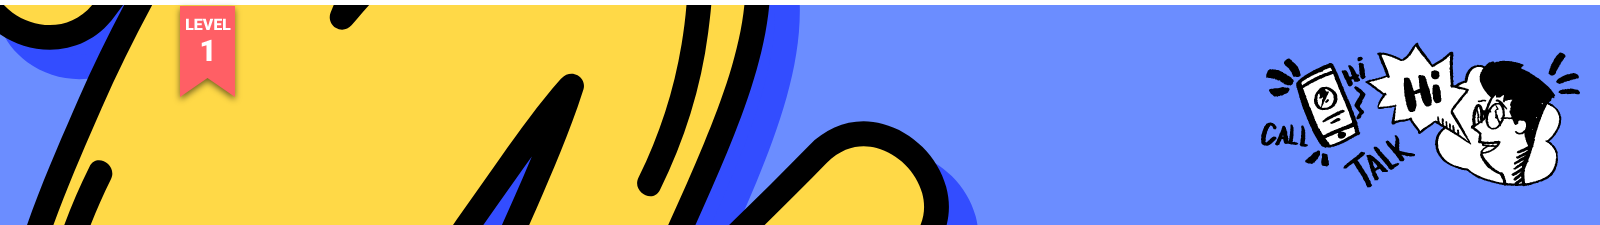
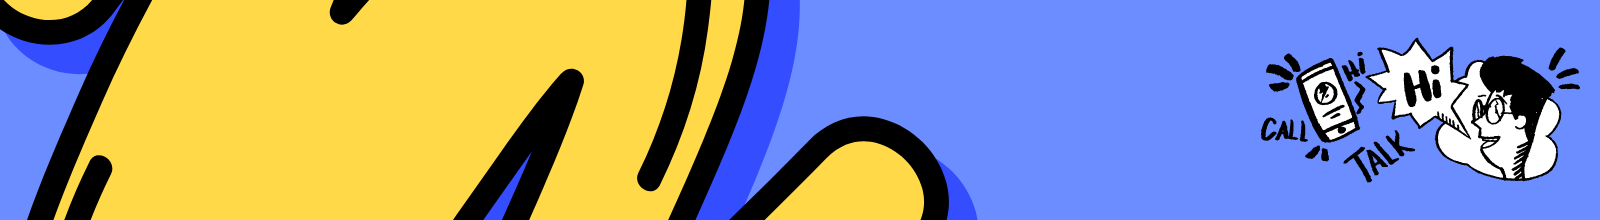
Ajustes header

diff --git a/src/config/global.js b/src/config/global.js
@@ -1,8 +1,7 @@
 export default {
   global: {
-    componenteFormativoENG: 'Hello! It’s nice to meet you. ',
     componenteFormativo:
-      '<span class= r-4>¡Hola! Encantado de conocerte.</span>',
+      'Hello! It’s nice to meet you.<br> <span class= r-4>¡Hola! Encantado de conocerte.</span>',
     descripcionCurso:
       'Durante el siguiente componente se brinda la introducción a las nociones gramaticales básicas, desde artículos, sustantivos y pronombres de sujeto para denominar correctamente cualquier cosa (persona, animal, objeto, etc.), pasando por el verbo ser/estar, los saludos y las despedidas, para enunciar ideas un poco más elaboradas; y por último, vocabulario útil, como los números, los colores y la pronunciación del alfabeto.',
     imagenBannerPrincipal: require('@/assets/curso/portada/banner-princiapal.png'),

diff --git a/src/styles/_custom.sass b/src/styles/_custom.sass
@@ -1,12 +1,5 @@
 .banner-interno__fondo
   background-image: url('../assets/curso/portada/banner-interno.png') !important
-  top: -5px !important
-  bottom: -50px
-  left: 0
-  right: 0
-  background-color: #6b8dff
-  background-size: cover
-  background-position: top !important
 .tabla-a thead
   border-top: 0px
 .bg-primario-claro th
@@ -98,3 +91,6 @@
   color: $color-acento-contenido
 .bg-violeta
   background-color: #6b8dff
+.header
+  span.r-4
+    color: $color-sistema-texto !important

diff --git a/src/components/BannerPrincipal2.vue b/src/components/BannerPrincipal2.vue
@@ -7,7 +7,7 @@
       .col-lg-7.col-xxl-5.py-4.py-sm-5.banner-principal__info.px-3
         .banner-principal__componente
           h1.mb-0.mt-5(v-html="globalData.componenteFormativoENG")
-          h1.mb-0.text-white(v-html="globalData.componenteFormativo")
+          h1.mb-0(v-html="globalData.componenteFormativo")
         .col-lg-12
           .banner-principal__descripcion
             p.mb-0(v-html="globalData.descripcionCurso")
